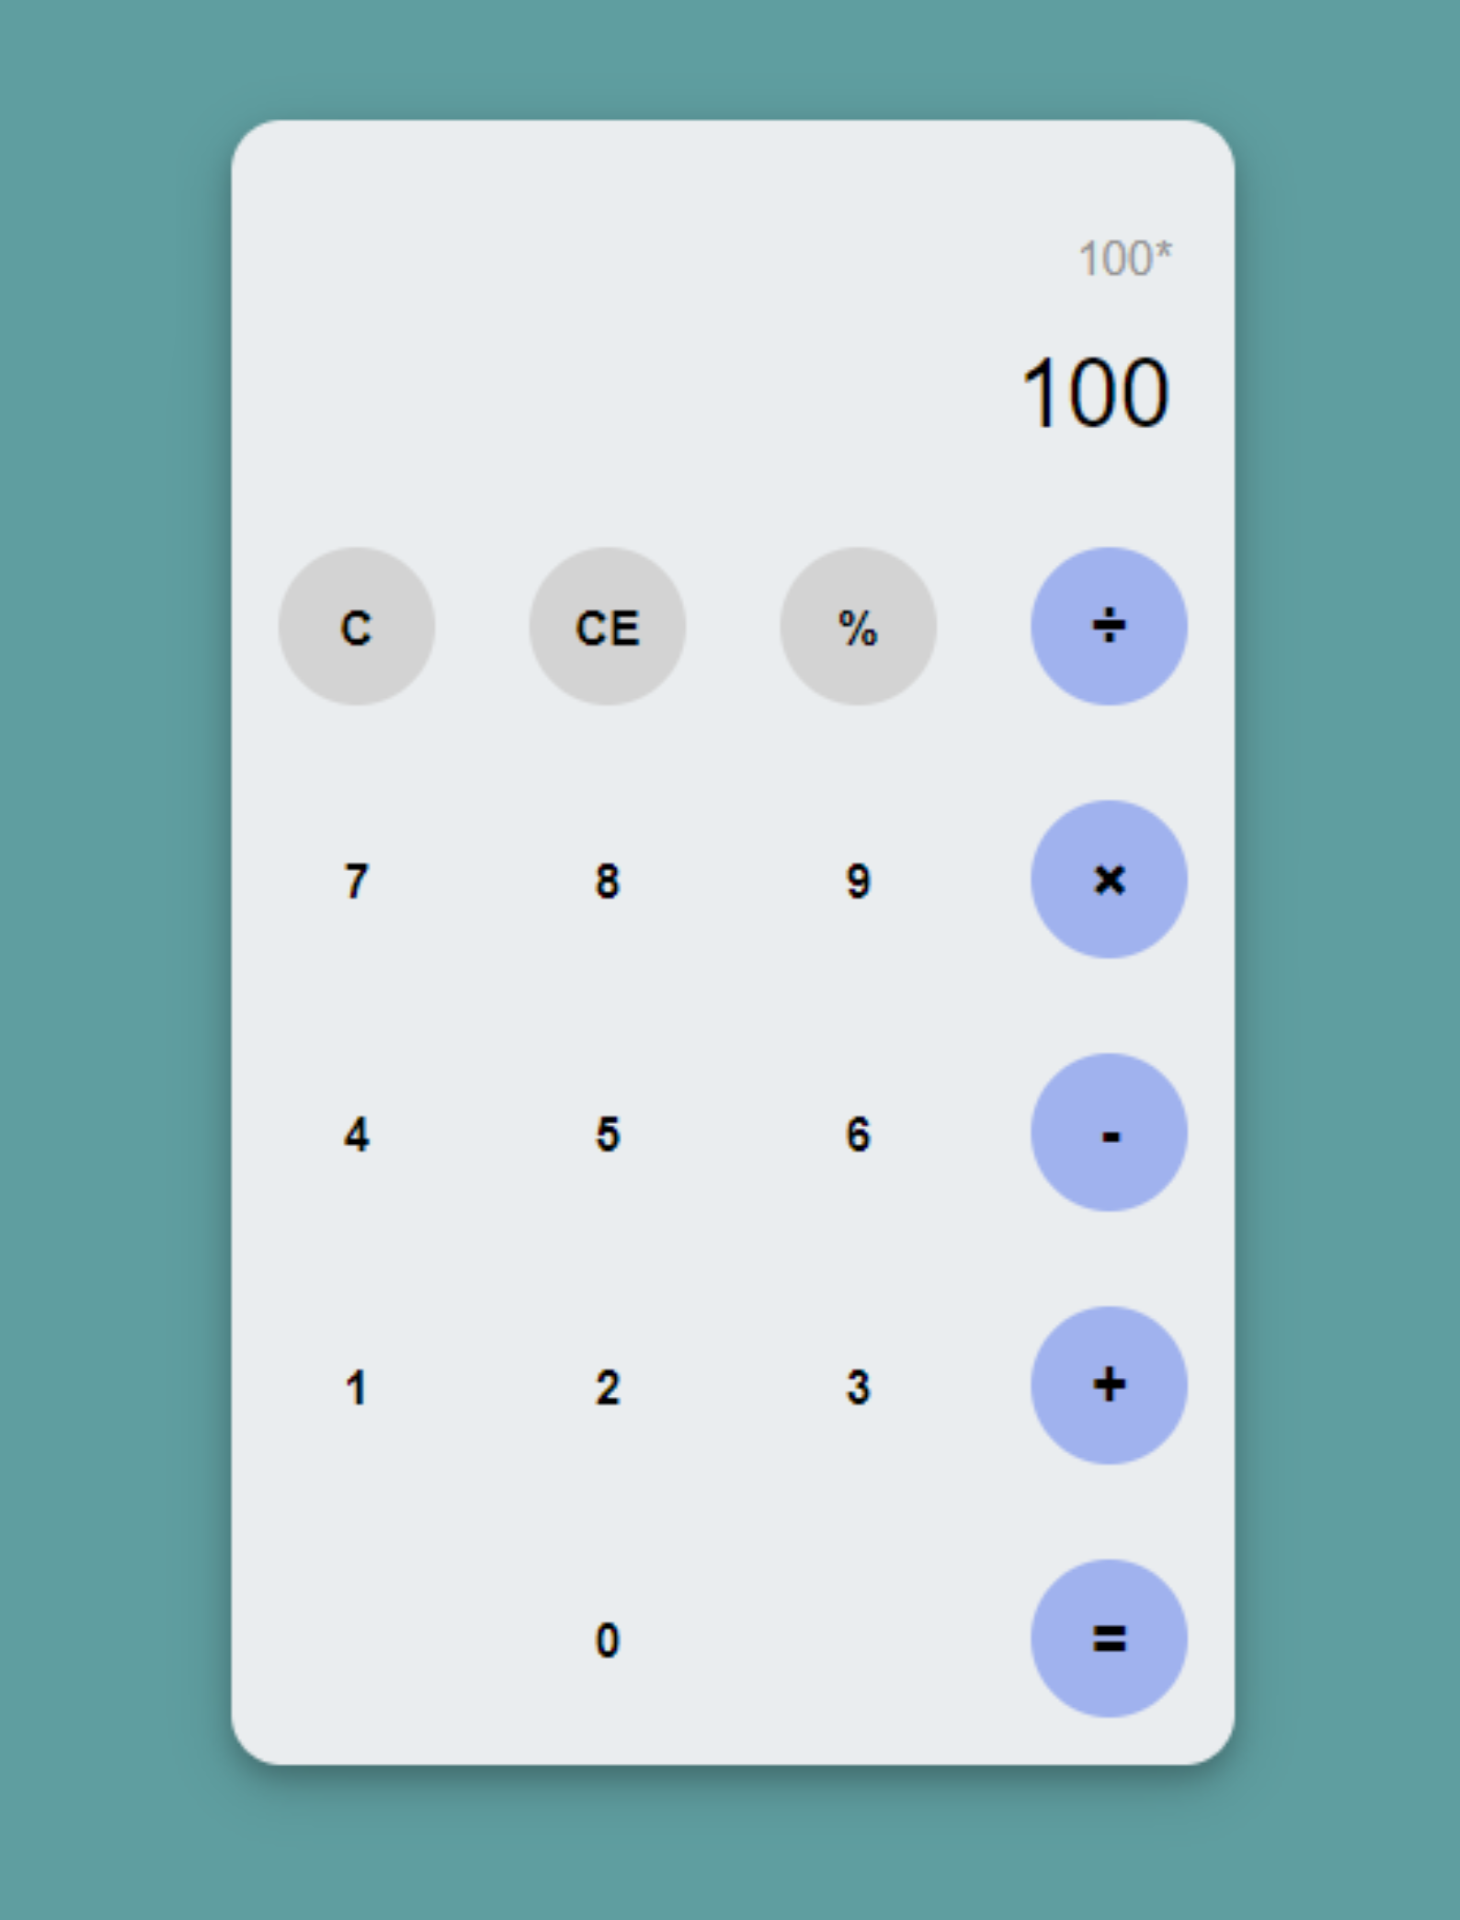
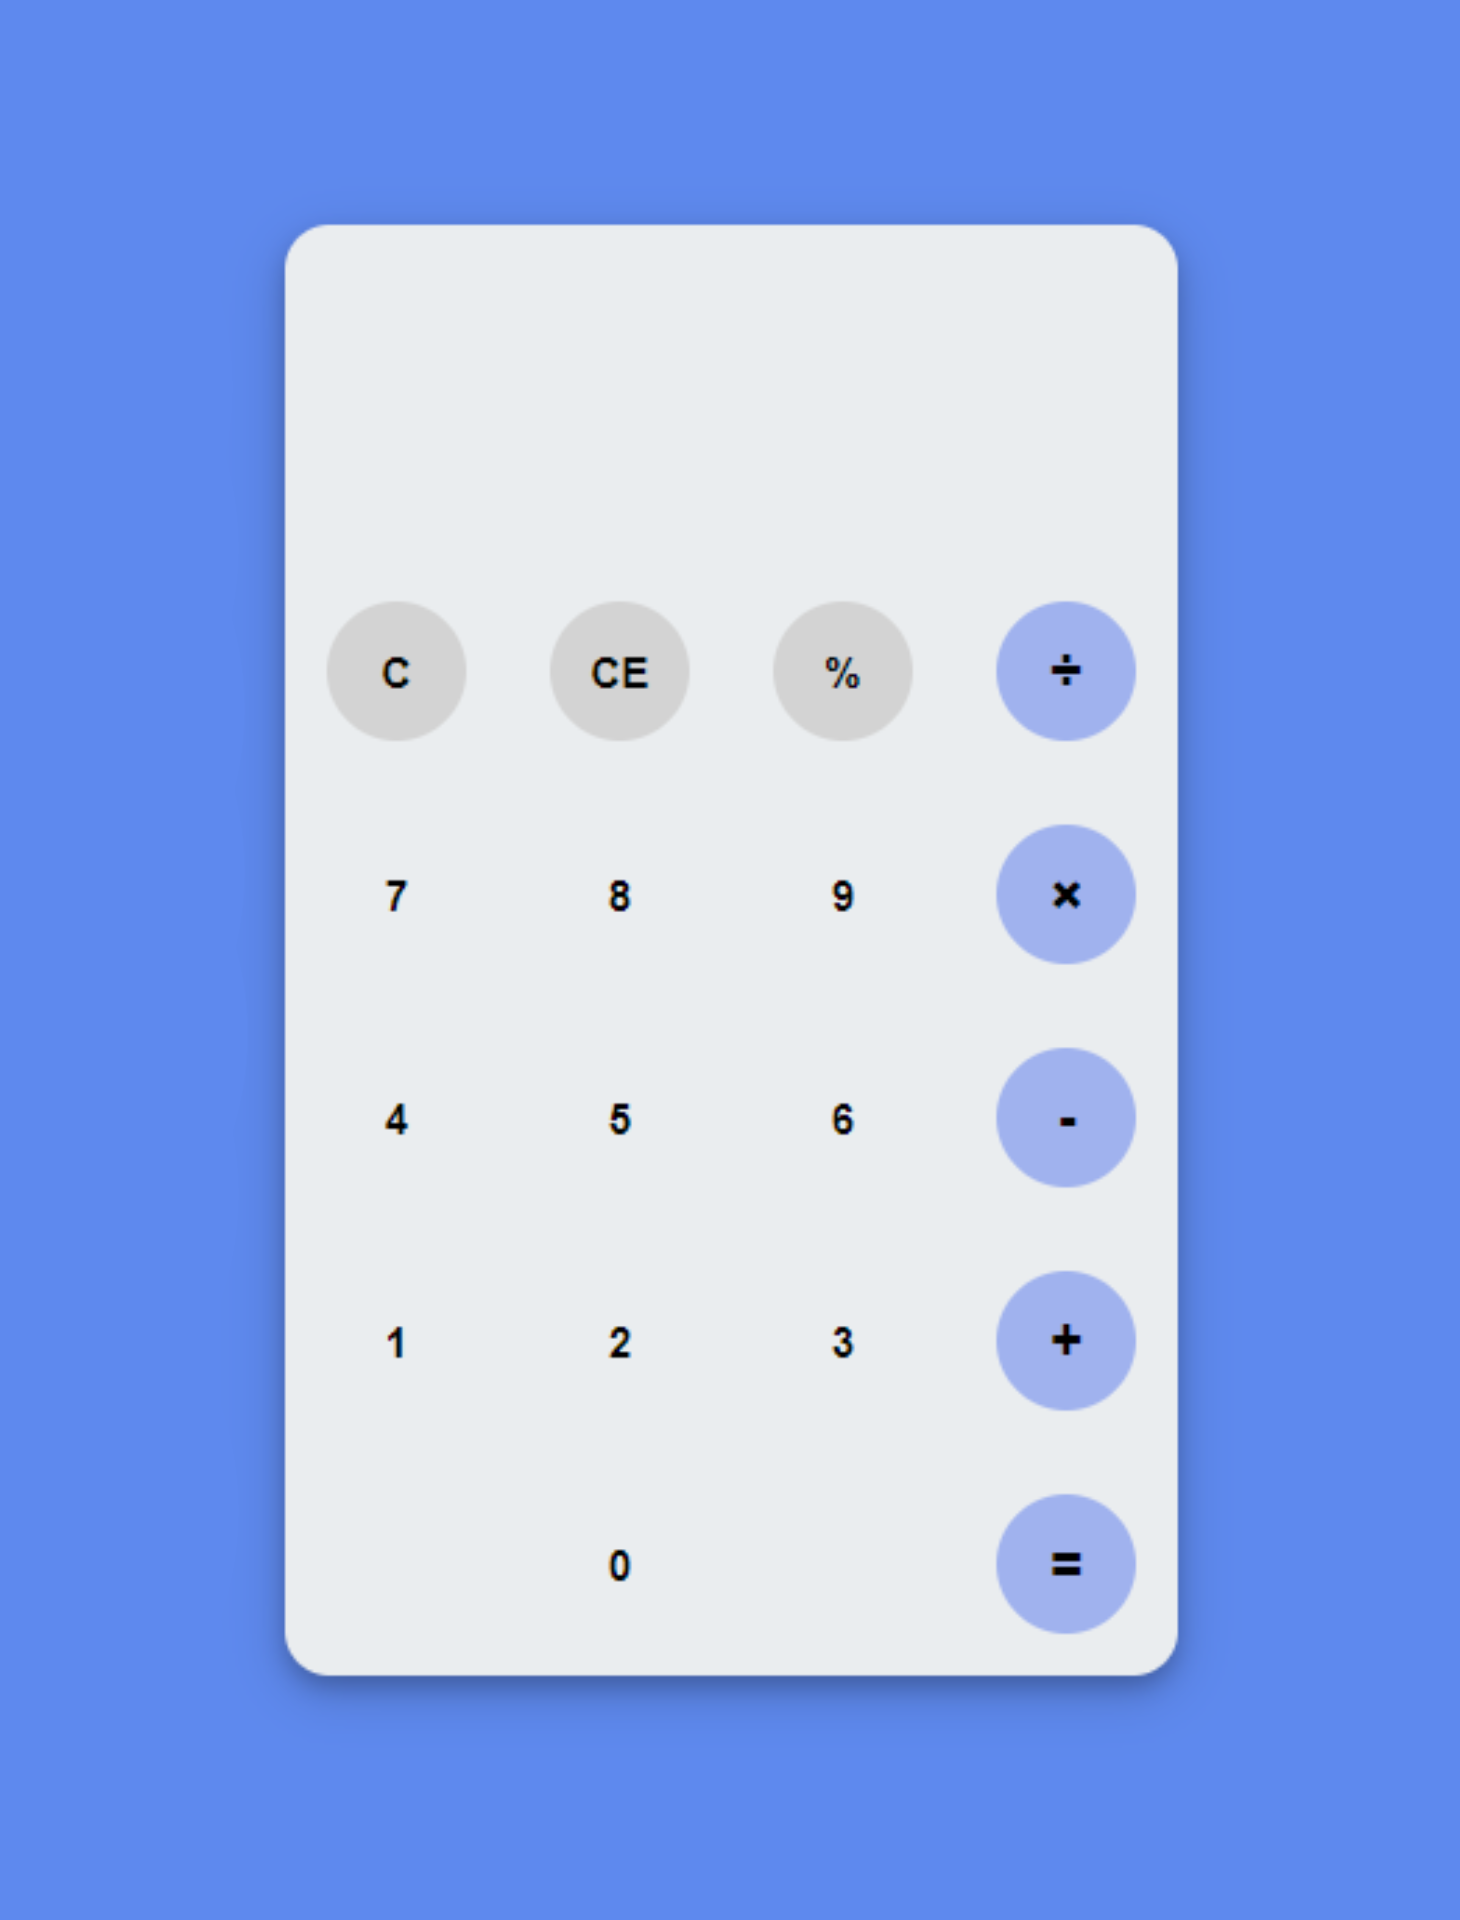
v1.01

diff --git a/projects/CounterApp/styles.css b/projects/CounterApp/styles.css
@@ -1,15 +1,7 @@
-/*
-=============== 
-Fonts
-===============
-*/
+/* Fonts */
 @import url("https://fonts.googleapis.com/css?family=Open+Sans|Roboto:400,700&display=swap");
 
-/*
-=============== 
-Variables
-===============
-*/
+/* Variables */
 
 :root {
   /* dark shades of primary color*/
@@ -53,11 +45,7 @@ Variables
   --max-width: 1170px;
   --fixed-width: 620px;
 }
-/*
-=============== 
-Global Styles
-===============
-*/
+/* Global Styles */
 
 *,
 ::after,
@@ -151,11 +139,7 @@ main {
   place-items: center;
 }
 
-/*
-=============== 
-Counter
-===============
-*/
+/* Counter */
 
 main {
   min-height: 100vh;

diff --git a/index.html b/index.html
@@ -186,7 +186,7 @@
                     href="./projects/NotesApp/index.html"
                   >
                     <img
-                      src="./img/portfolio/Note-app.png"
+                      src="./img/portfolio/notes-app.png"
                       alt="Notes-App"
                       class="img-fluid"
                     />

diff --git a/projects/CalculatorApp/style.css b/projects/CalculatorApp/style.css
@@ -1,6 +1,6 @@
 body {
   font-family: "Poppins", sans-serif;
-  background-color: cadetblue;
+  background-color: #5e89ee;
 }
 
 .container {
